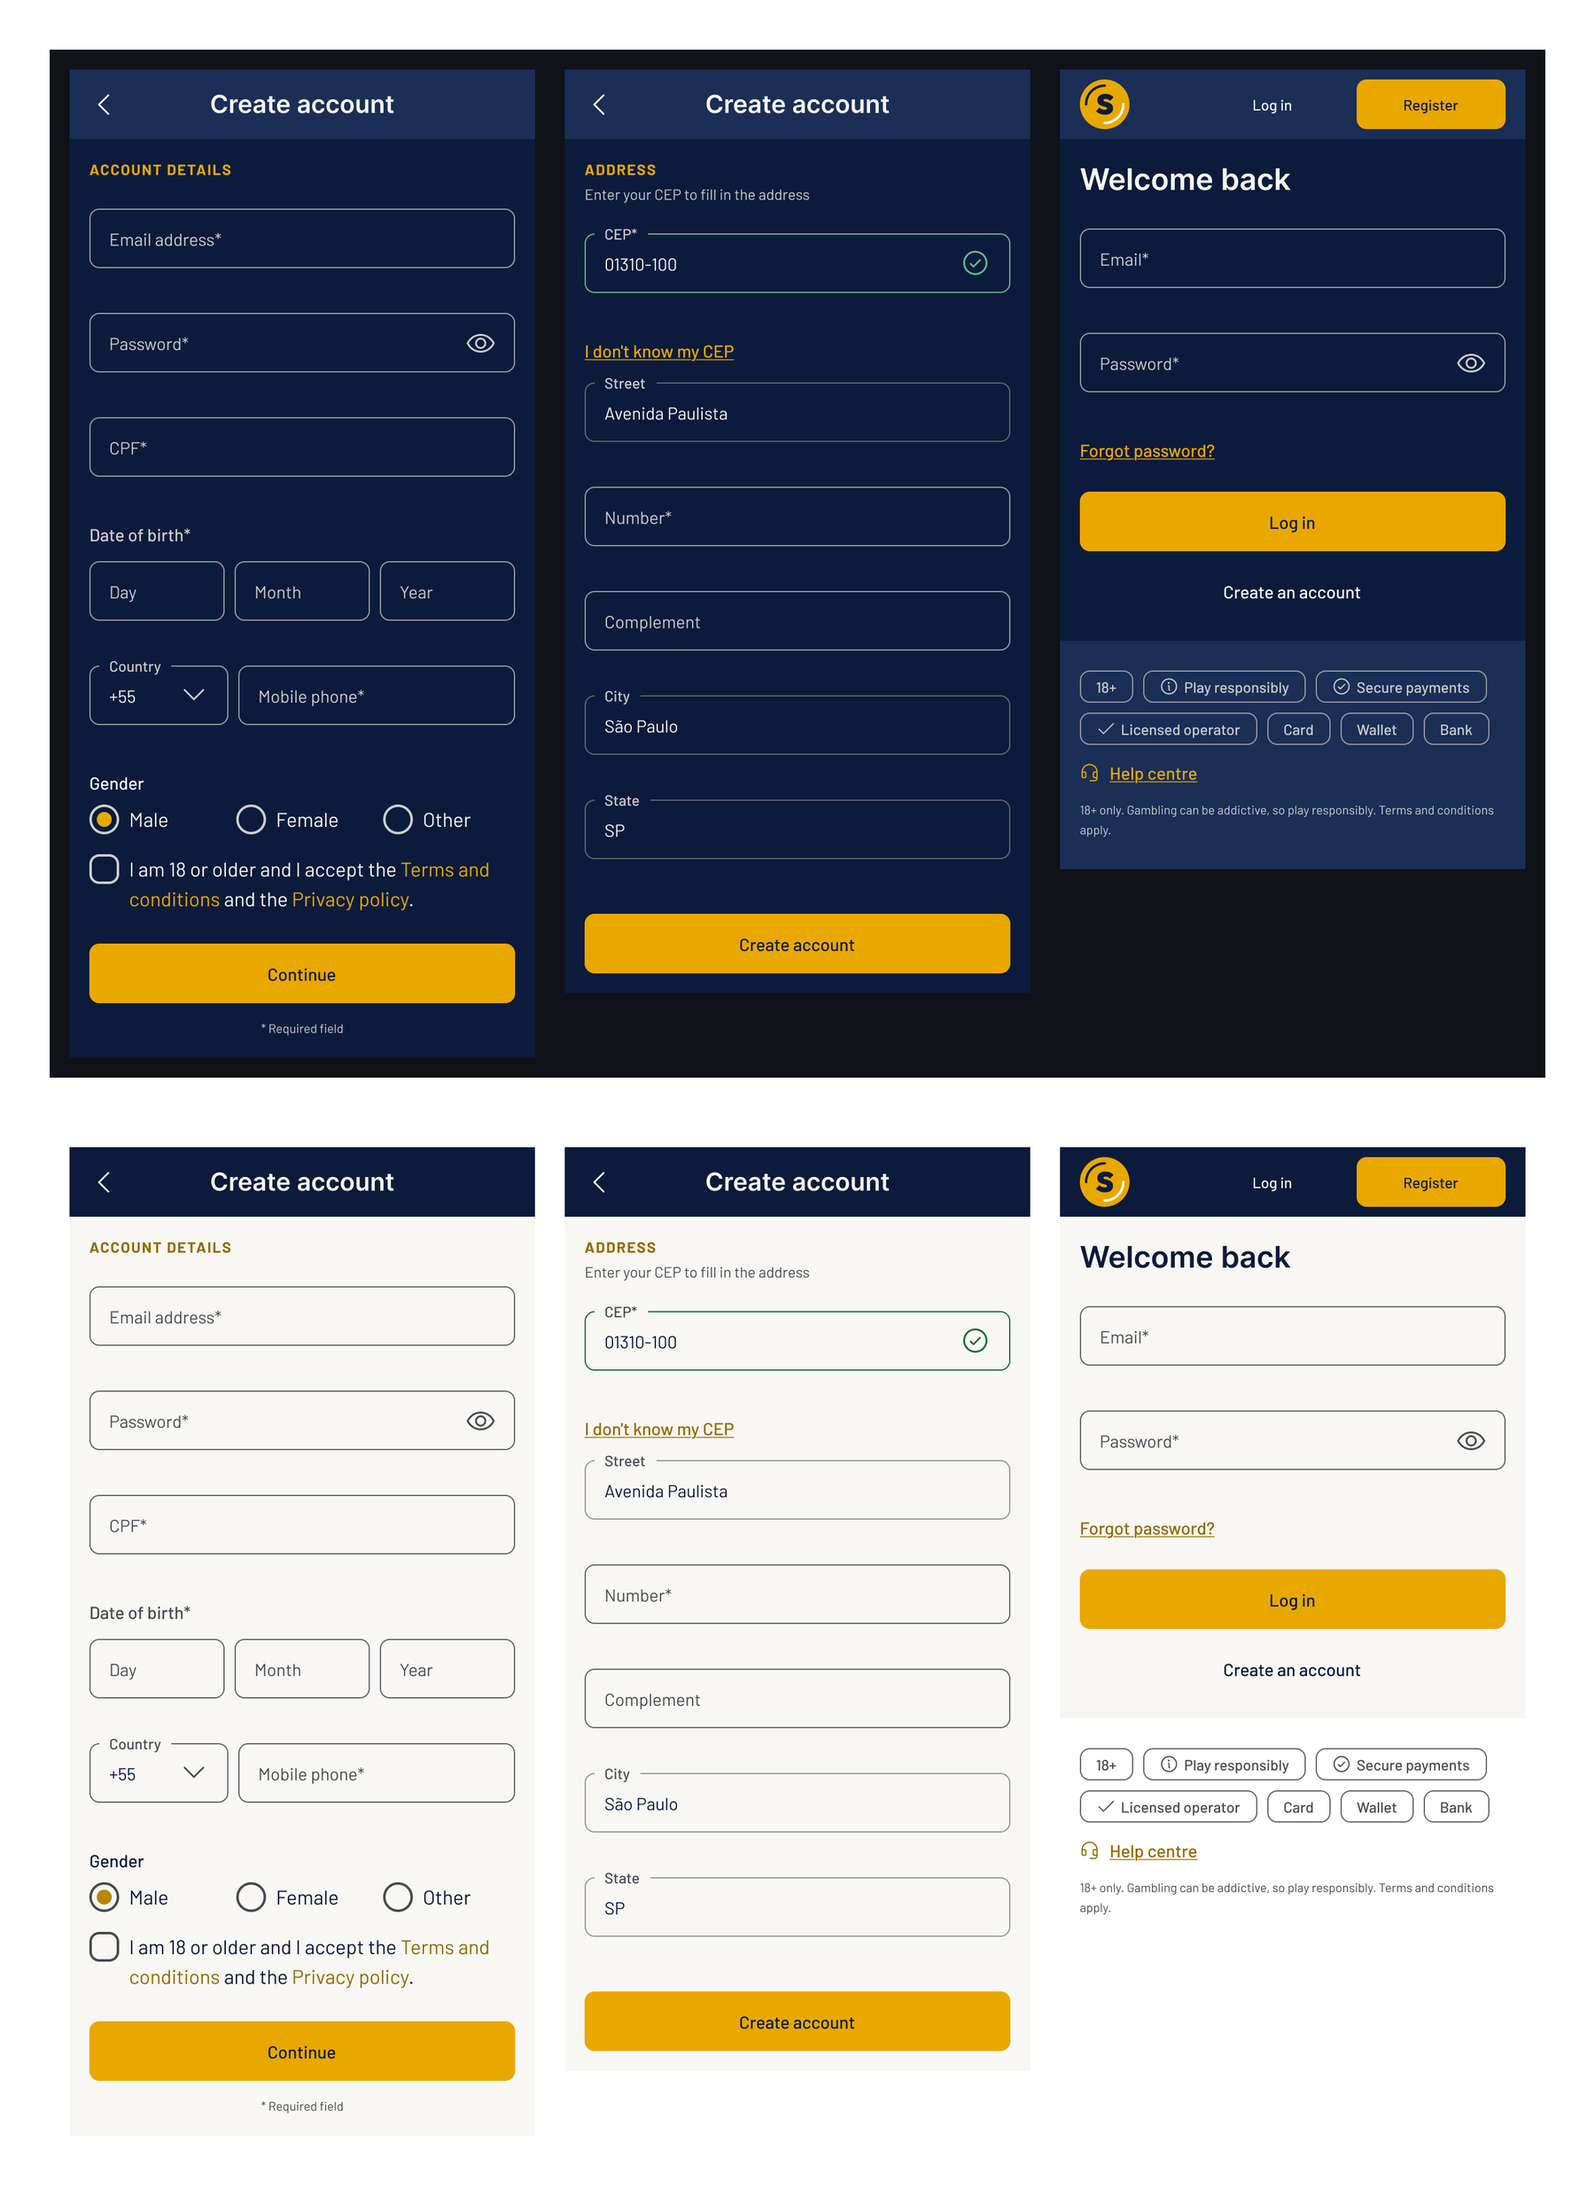
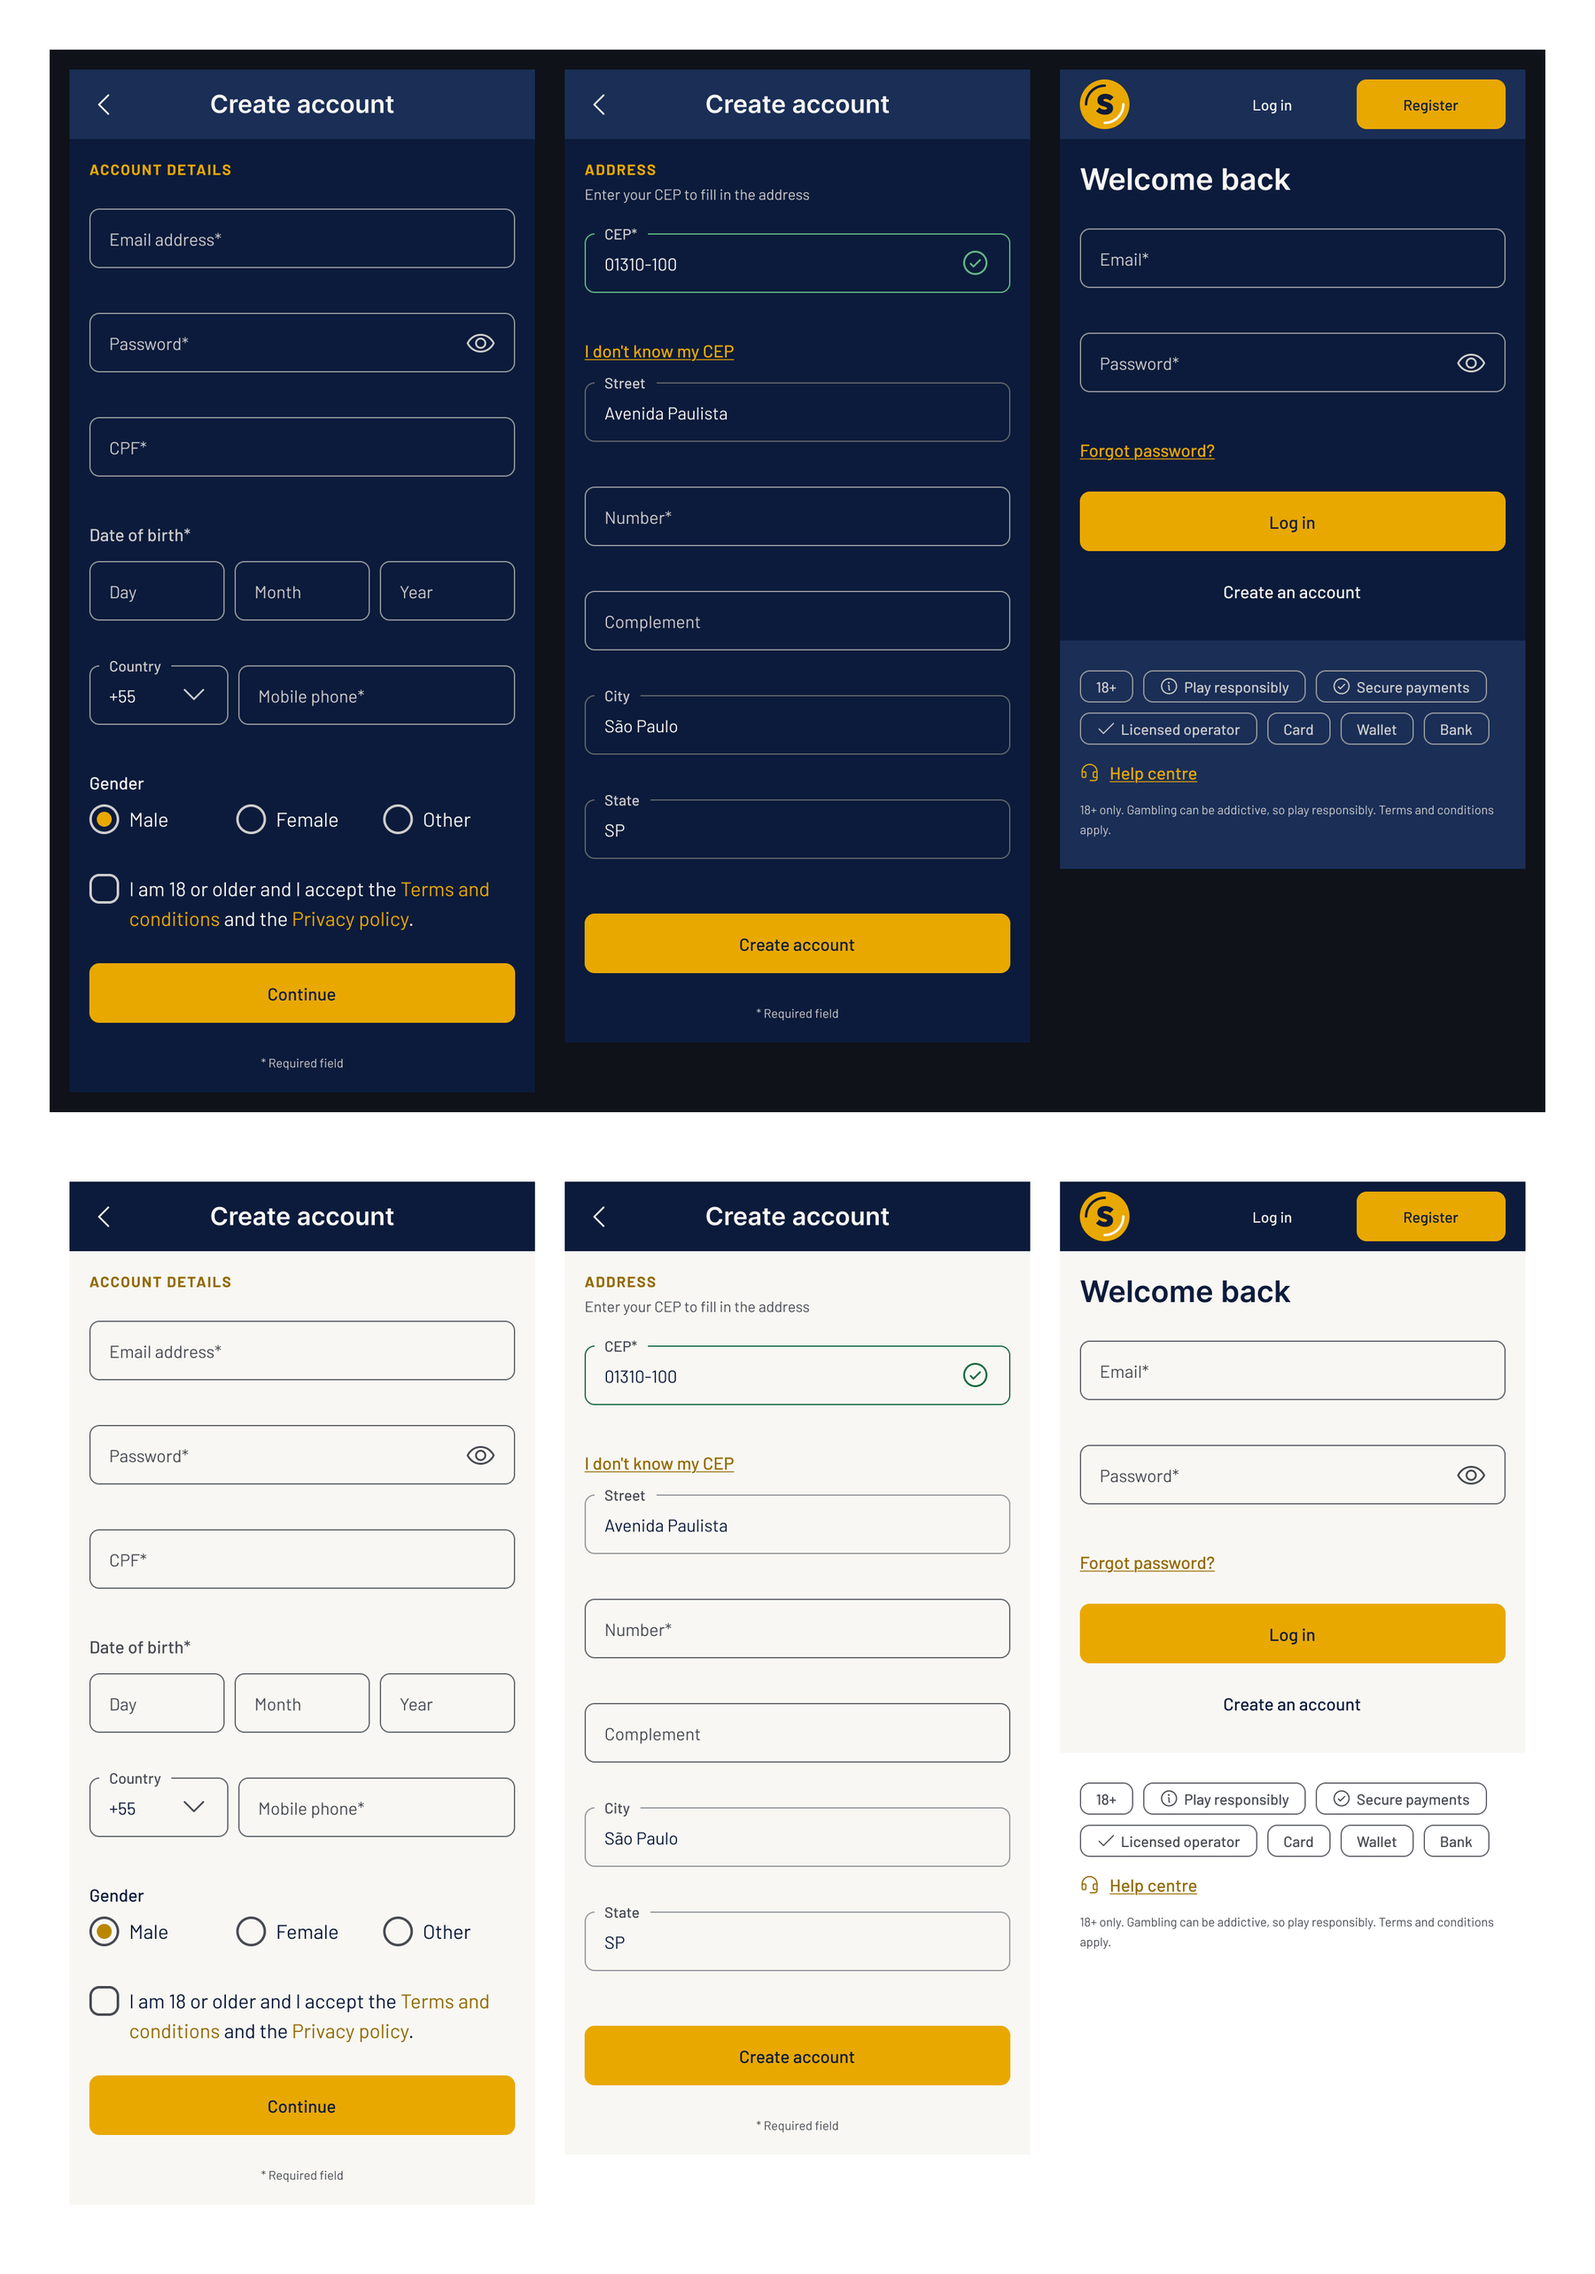
Case study: updated proof screens render
Claude-Session: https://claude.ai/code/session_01EQksV3Jgt5Yu3jbwfhxrGh

diff --git a/index.html b/index.html
@@ -413,7 +413,7 @@ footer{border-top:1px solid var(--line);padding-block:36px 64px;display:flex;fle
     <p>Contrast was part of every check, measured across all ten theme and context combinations. In the final file, body text is at least 12.5:1, labels at least 7.8:1, button text at least 5.5:1, and error text and low-emphasis text at least 4.6:1.</p>
   </div>
   <figure class="shot">
-    <img src="img/proof.png" width="1800" height="2488" loading="lazy" alt="Three proof screens, registration step 1, registration step 3 and Login, shown twice: in the Dark theme on top and the Light theme below. The screens are identical instances; only the theme mode differs.">
+    <img src="img/proof.png" width="1800" height="2566" loading="lazy" alt="Three proof screens, registration step 1, registration step 3 and Login, shown twice: in the Dark theme on top and the Light theme below. The screens are identical instances; only the theme mode differs.">
     <figcaption>The proof: registration and login screens built only from library instances. The Light row is the same three instances with the theme mode switched, with no edits inside the screens.</figcaption>
   </figure>
 </section>
